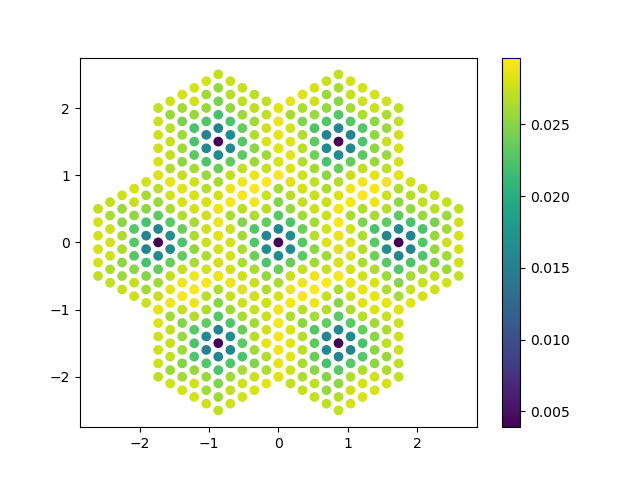
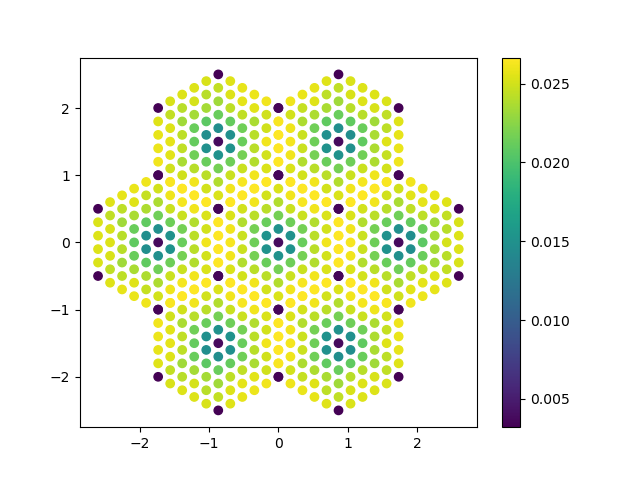
comments

diff --git a/Mods/single_Bubble_ep.py b/Mods/single_Bubble_ep.py
@@ -123,10 +123,11 @@ class ep_Bubble:
         disp=Hamiltonian.Dispersion( latt, nbands, hpl, hmin)
         [self.psi_plus,self.Ene_valley_plus_1bz,self.psi_min,self.Ene_valley_min_1bz]=disp.precompute_E_psi()
         
-        # self.Ene_valley_plus=self.hpl.ExtendE(self.Ene_valley_plus_1bz , self.umkl+1)
-        # self.Ene_valley_min=self.hmin.ExtendE(self.Ene_valley_min_1bz , self.umkl+1)
+        self.Ene_valley_plus=self.hpl.ExtendE(self.Ene_valley_plus_1bz , self.umkl+1)
+        self.Ene_valley_min=self.hmin.ExtendE(self.Ene_valley_min_1bz , self.umkl+1)
         
-        [self.psi_plus,self.Ene_valley_plus,self.psi_min,self.Ene_valley_min]=disp.precompute_E_psi_karg(self.KQX,self.KQY)
+        #full diag
+        # [self.psi_plus,self.Ene_valley_plus,self.psi_min,self.Ene_valley_min]=disp.precompute_E_psi_karg(self.KQX,self.KQY)
         
         ################################
         ###selecting eta
@@ -162,11 +163,12 @@ class ep_Bubble:
         ################################
         #generating form factors
         ################################
-        # self.FFp=Hamiltonian.FormFactors_umklapp(self.psi_plus, 1, latt, self.umkl+1,self.hpl)
-        # self.FFm=Hamiltonian.FormFactors_umklapp(self.psi_min, -1, latt, self.umkl+1,self.hmin)
+        self.FFp=Hamiltonian.FormFactors_umklapp(self.psi_plus, 1, latt, self.umkl+1,self.hpl)
+        self.FFm=Hamiltonian.FormFactors_umklapp(self.psi_min, -1, latt, self.umkl+1,self.hmin)
         
-        self.FFp=Hamiltonian.FormFactors(self.psi_plus, 1, latt, self.umkl+1,self.hpl)
-        self.FFm=Hamiltonian.FormFactors(self.psi_min, -1, latt, self.umkl+1,self.hmin)
+        #full diag
+        # self.FFp=Hamiltonian.FormFactors(self.psi_plus, 1, latt, self.umkl+1,self.hpl)
+        # self.FFm=Hamiltonian.FormFactors(self.psi_min, -1, latt, self.umkl+1,self.hmin)
 
         
         if symmetric=="s":
@@ -259,8 +261,8 @@ class ep_Bubble:
                 
                 #Regular FF
                 # Plus Valley FF Omega
-                undet=undet+np.abs(np.linalg.det(np.abs(self.Omega_FFp[k,:,kp,:])**2))  
-                dosdet=dosdet+np.abs(np.linalg.det(np.abs(self.Omega_FFp[int(Indc3z[k]),:,int(Indc3z[kp]),:])**2))
+                undet=np.abs(np.linalg.det(np.abs(self.Omega_FFp[k,:,kp,:])**2))  
+                dosdet=np.abs(np.linalg.det(np.abs(self.Omega_FFp[int(Indc3z[k]),:,int(Indc3z[kp]),:])**2))
                 # undet=np.abs(np.linalg.det(self.Omega_FFp[k,:,kp,:]))
                 # dosdet=np.abs(np.linalg.det(self.Omega_FFp[int(Indc3z[k]),:,int(Indc3z[kp]),:]))
                 cos1.append(undet)

diff --git a/Mods/Hamiltonian.py b/Mods/Hamiltonian.py
@@ -20,7 +20,7 @@ class Ham_BM_p():
         self.latt=latt
         self.kappa=kappa
         self.PH=PH #particle hole symmetry
-        self.gap=0#1e-8#artificial gap
+        self.gap=1e-6#artificial gap
         
         #precomputed momentum lattice and interlayer coupling
        
